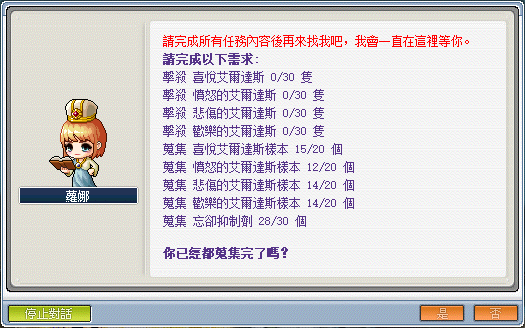
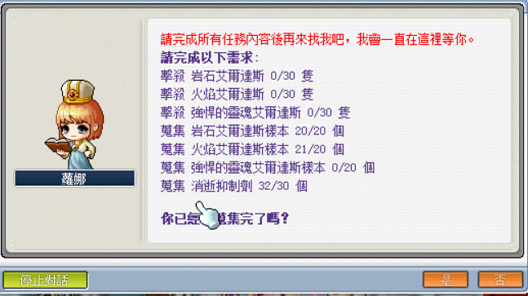
Updated page content, fixed image and GitHub repo link.

diff --git a/docs/奧術之河/消失的路途/index.md b/docs/奧術之河/消失的路途/index.md
@@ -9,7 +9,7 @@
 
 在取得祕法符文：奧術探索者後，可以向以下 NPC 進行相關功能：
 
-| **NPC**            | **功能**                |
+| NPC                | 功能                    |
 |--------------------|------------------------|
 | 休菲凱曼 奧術之河嚮導 | 查詢導引、每日任務快速通關 |
 | 蘿娜 每日任務        | 進行每日任務             |
@@ -17,21 +17,48 @@
 
 ## 每日任務
 
-![每日任務/1](每日任務/1.png)
+### 喜怒哀樂
 
-![每日任務/2](每日任務/2.png)
+喜怒哀樂每日任務可以到無名村落最右邊上面傳點進入開打。
 
-![每日任務/3](每日任務/3.png)
+| 任務內容                    | 傳送點                       |
+|----------------------------|----------------------------|
+| ![每日任務/1](每日任務/1.png) | ![每日任務/4](每日任務/4.png) |
 
-每次完成每日任務可獲得 80,400,000 經驗值。
+### 安息、火焰地帶
+
+安息每日任務可以到無名村落最右邊下方傳點進入忘卻之湖 - 湖水邊，並與 NPC 奇馬船夫對話後進入消逝的火焰地帶 - 海市蜃樓絕壁，並經由傳點進入安息的洞穴 - 洞穴入口後走到最右邊傳點進入開打。
+
+火焰地帶每日任務可以到無名村落最右邊下方傳點進入忘卻之湖 - 湖水邊，並與 NPC 奇馬船夫對話後進入消逝的火焰地帶 - 海市蜃樓絕壁，並經由傳點進入後開打，或透過 NPC 里諾傳送。
+
+| 任務內容                    | 傳送點                       |
+|----------------------------|----------------------------|
+| ![每日任務/2](每日任務/2.png) | ![每日任務/5](每日任務/5.png) |
+| ![每日任務/3](每日任務/3.png) | ![每日任務/5](每日任務/5.png) |
 
 ## 升級祕法符文：奧術探索者
 
-| **Lv**     | **需求道具**          | **需求楓幣** |
-|------------|----------------------|-------------|
-| Lv0 -> Lv1 | 祕法符文：消逝的旅途xN  | N           |
-| Lv1 -> Lv2 | 祕法符文：消逝的旅途xN  | N           |
-| Lv2 -> Lv3 | 祕法符文：消逝的旅途xN  | N           |
-| Lv3 -> Lv4 | 祕法符文：消逝的旅途xN  | N           |
-| Lv4 -> Lv5 | 祕法符文：消逝的旅途x36 | 110,000,000 |
-| Lv4 -> Lv5 | 祕法符文：消逝的旅途x47 | 130,000,000 |
+| Lv           | 祕法符文：消逝的旅途需求數量 | 需求楓幣      |
+|--------------|-------------------------:|-------------:|
+| Lv0  -> Lv1  | 12                       |   30,000,000 |
+| Lv1  -> Lv2  | 15                       |   50,000,000 |
+| Lv2  -> Lv3  | 20                       |   70,000,000 |
+| Lv3  -> Lv4  | 27                       |   90,000,000 |
+| Lv4  -> Lv5  | 36                       |  110,000,000 |
+| Lv5  -> Lv6  | 47                       |  130,000,000 |
+| Lv6  -> Lv7  | 60                       |  150,000,000 |
+| Lv7  -> Lv8  | 75                       |  170,000,000 |
+| Lv8  -> Lv9  | 92                       |  190,000,000 |
+| Lv9  -> Lv10 | 111                      |  210,000,000 |
+| Lv10 -> Lv11 | 132                      |  230,000,000 |
+| Lv11 -> Lv12 | 155                      |  250,000,000 |
+| Lv12 -> Lv13 | 180                      |  270,000,000 |
+| Lv13 -> Lv14 | 207                      |  290,000,000 |
+| Lv14 -> Lv15 | 236                      |  310,000,000 |
+| Lv15 -> Lv16 | 267                      |  330,000,000 |
+| Lv16 -> Lv17 | 300                      |  350,000,000 |
+| Lv17 -> Lv18 | 335                      |  370,000,000 |
+| Lv18 -> Lv19 | 372                      |  390,000,000 |
+| Lv19 -> Lv20 | 411                      |  410,000,000 |
+| Lv19 -> Lv20 | 411                      |  410,000,000 |
+| 總計          | 3090                     | 4,400,000,000 |

diff --git a/docs/_coverpage.md b/docs/_coverpage.md
@@ -2,5 +2,5 @@
 
 > A magical wiki for MapleDreams.
 
-[GitHub](https://github.com/ychsieh95/dmswiki/)
+[GitHub](https://github.com/ychsieh95/dms-wiki/)
 [Get Started](README.md)

diff --git a/知識大雜燴/結婚/index.md b/知識大雜燴/結婚/index.md
@@ -1,0 +1,7 @@
+# 結婚
+
+1. 請任意一方準備豪門結婚券，可以從購物商場裡面購得。
+
+    ![0](0.png)
+
+2.
